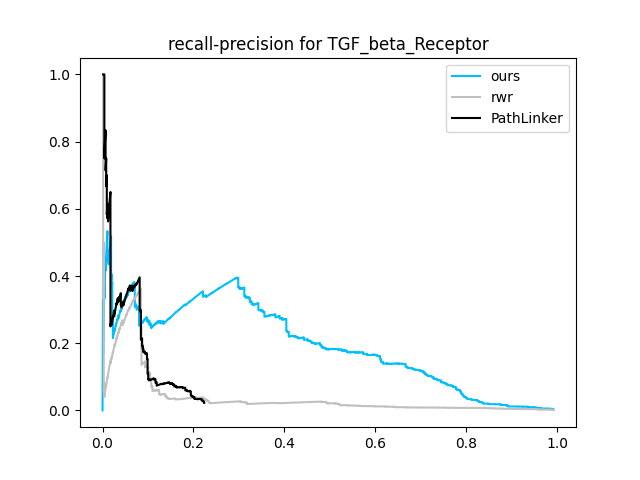
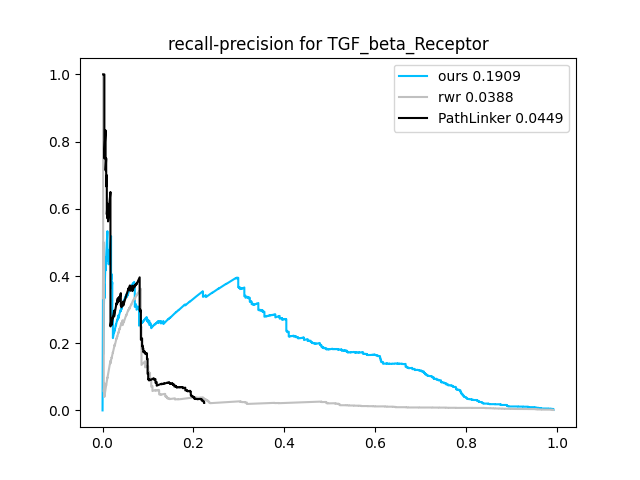
AUPRC added

Changed region(s): [[0.6875, 0.125, 0.875, 0.2812], [0.625, 0.1562, 0.6562, 0.25]]

diff --git a/main.py b/main.py
@@ -3,6 +3,7 @@ import math
 import numpy as np
 import matplotlib.pyplot as plt
 from matplotlib import colors as mcolors
+from sklearn.metrics import auc
 
 from utils import reader
 from pyrwr.ppr import PPR
@@ -12,19 +13,11 @@ G = nx.Graph()
 
 colors = dict(mcolors.BASE_COLORS, **mcolors.CSS4_COLORS)
 
-data = "Wnt"
+datas = ["TNFalpha", "Wnt", "TGF_beta_Receptor"]
 
 input_graph = "data/interactome-weights.txt"
+# input_graph = "data/2015pathlinker-weighted.txt"
 graph_type = "directed"
-rtf_path = "data/NetPath/" + data + "-nodes.txt"
-pathway_path = "data/NetPath/" + data + "-edges.txt"
-
-if data == "Wnt":
-    pathlinker = "data/Wnt/test-files/Wnt-weighted-paths-pathlinker.txt"
-elif data == "TNFalpha":
-    pathlinker = "data/TNFalpha/test-files/TNFalpha-weighted-paths-pathlinker.txt"
-else:
-    pathlinker = "data/TGF_beta/test-files/TGF_beta-weighted-paths-pathlinker.txt"
 
 
 # This method computes the edge weights based on the given method
@@ -62,7 +55,7 @@ def compute_recall_precision(sorted_edges, known_pathway, recall_bound=1.0):
             fp += 1
         recalls.append(tp / len(known_pathway))
         precisions.append(tp / (tp + fp))
-        if recalls[-1] >= recall_bound:
+        if recalls[-1] > recall_bound:
             break
     return recalls, precisions
 
@@ -82,7 +75,7 @@ def run_random_walk(new_graph, c=0.15):
     return ppr.compute(seeds, c=c, max_iters=1000)
 
 
-def run_algorithm(method, color, alpha=0.0, c=0.15, k=300):
+def run_algorithm(method, color, alpha=0.0, c=0.15, k=300, recall_bound=1.0):
     new_graph = compute_new_graph(method, alpha)
     # creating the graph using the new weights
     adj_list = {}
@@ -101,13 +94,15 @@ def run_algorithm(method, color, alpha=0.0, c=0.15, k=300):
 
     # computing the precision and recall
     print("computing recall-precision curve for " + method)
-    recalls, precisions = compute_recall_precision(sorted_edges, subpathway)
+    recalls, precisions = compute_recall_precision(sorted_edges, subpathway, recall_bound)
 
     name = method
-    plt.plot(recalls, precisions, color=color, label=name)
+    plt.plot(recalls, precisions, color=color, label=name + " " + str(round(auc(recalls, precisions), 4)))
+
+    print("AUPRC of " + method + ": " + str(auc(recalls, precisions)))
 
     # computing the highest ranked edges
-    return [[sorted_edges[i][0][0], sorted_edges[i][0][1]] for i in range(max(k, len(sorted_edges)))]
+    return [[sorted_edges[i][0][0], sorted_edges[i][0][1]] for i in range(min(k, len(sorted_edges)))]
 
 
 def read_pathway(path):
@@ -153,42 +148,55 @@ def add_pathlinker(path, color, k=300):
     recalls, precisions = compute_recall_precision(edges, subpathway)
 
     name = "PathLinker"
-    plt.plot(recalls, precisions, color=color, label=name)
+    plt.plot(recalls, precisions, color=color, label=name + " " + str(round(auc(recalls, precisions), 4)))
+
+    print("AUPRC of pathlinker: " + str(auc(recalls, precisions)))
 
     # computing the highest ranked edges
-    return [[edges[i][0][0], edges[i][0][1]] for i in range(max(k, len(edges)))]
+    return [[edges[i][0][0], edges[i][0][1]] for i in range(max(k, len(edges)))], recalls[-1]
 
 
 # reading the graph
 _, nodes, graph = reader.read_graph(input_graph, graph_type)
-
-# reading seeds and targets
-seeds, targets = read_source_and_destinations(rtf_path)
-
-# reading pathway
-pathway = read_pathway(pathway_path)
-
-# removing the set of edges in the pathway that are not in the interactome
-subpathway = []
-for p in pathway:
-    for e in graph:
-        if e[0] == p[0] and e[1] == p[1]:
-            subpathway.append(p)
 
 # creating the networkx graph
 G.add_nodes_from(nodes)
 for e in graph:
     G.add_edge(int(e[1]), int(e[0]), weight=e[2])
 
-# finding the distances of each node from the targets
-length = nx.multi_source_dijkstra_path_length(G, targets)
-max_length = max(length.values())
+for data in datas:
+    rtf_path = "data/NetPath/" + data + "-nodes.txt"
+    pathway_path = "data/NetPath/" + data + "-edges.txt"
 
-pathway_ours = run_algorithm(method="ours", color=colors["deepskyblue"], alpha=5, c=0.25, k=300)
-pathway_rwr = run_algorithm(method="rwr", color=colors["silver"], k=300)
-pathway_pathlinker = add_pathlinker(pathlinker, color=colors["black"], k=300)
-plt.legend()
-plt.title("recall-precision for " + data)
+    if data == "Wnt":
+        pathlinker = "data/Wnt/test-files/Wnt-weighted-paths-pathlinker.txt"
+    elif data == "TNFalpha":
+        pathlinker = "data/TNFalpha/test-files/TNFalpha-weighted-paths-pathlinker.txt"
+    else:
+        pathlinker = "data/TGF_beta/test-files/TGF_beta-weighted-paths-pathlinker.txt"
 
-plt.savefig("results-" + data + ".png")
-plt.close()
+
+    # reading seeds and targets
+    seeds, targets = read_source_and_destinations(rtf_path)
+
+    # reading pathway
+    pathway = read_pathway(pathway_path)
+
+    # removing the set of edges in the pathway that are not in the interactome
+    subpathway = []
+    for p in pathway:
+        for e in graph:
+            if e[0] == p[0] and e[1] == p[1]:
+                subpathway.append(p)
+
+    # finding the distances of each node from the targets
+    length = nx.multi_source_dijkstra_path_length(G, targets)
+
+    pathway_pathlinker, last_recall = add_pathlinker(pathlinker, color=colors["black"], k=300)
+    pathway_ours = run_algorithm(method="ours", color=colors["deepskyblue"], alpha=5, c=0.25, k=300, recall_bound=last_recall)
+    pathway_rwr = run_algorithm(method="rwr", color=colors["silver"], k=300, recall_bound=last_recall)
+    plt.legend()
+    plt.title("recall-precision for " + data)
+
+    plt.savefig("results-" + data + "-halfway.png")
+    plt.close()
